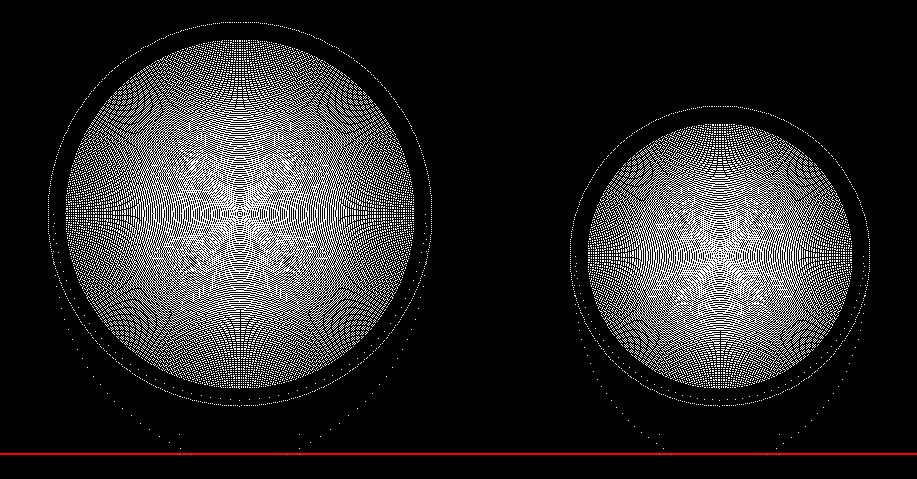
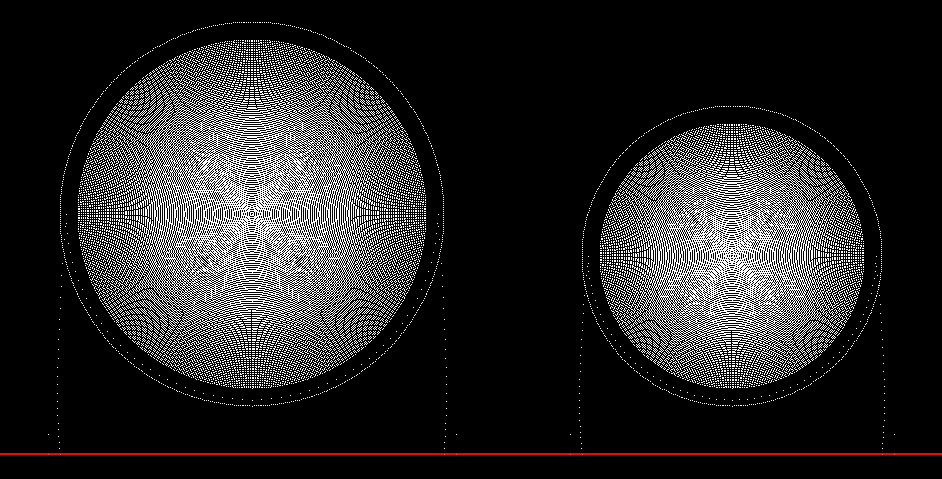
Support default: full-width straight-down sides (Base size maxed)
No structural reason to taper -- straight down is stiffer; narrowing only
saved trivial resin. Slider still allows a narrower line if wanted.

Claude-Session: https://claude.ai/code/session_01WwifRhFHiDXyUrop2FL3Es

Changed region(s): [[0.0611, 0.0585, 0.458, 0.8476], [0.6107, 0.2338, 0.9466, 0.8476]]

diff --git a/server/static/bases.js b/server/static/bases.js
@@ -9,7 +9,8 @@ const BASE_OPTS = {
   pins_enabled: false, pin_count: 4, pin_diameter_mm: 2.0,
   pin_depth_mm: 1.0, pin_ring_frac: 0.55, pin_noise: 0.0,
   support_enabled: false, support_height_mm: 4.0,
-  support_thickness_mm: 0.8, support_base_mm: 8.0, support_raft_mm: 2.0,
+  support_thickness_mm: 0.8, support_raft_mm: 2.0,
+  support_base_mm: 40.0,  // clamps to disc width -> sides go straight down
 };
 // [key, label, min, max, step, unit, refetch?]
 const BASE_PARAMS = [